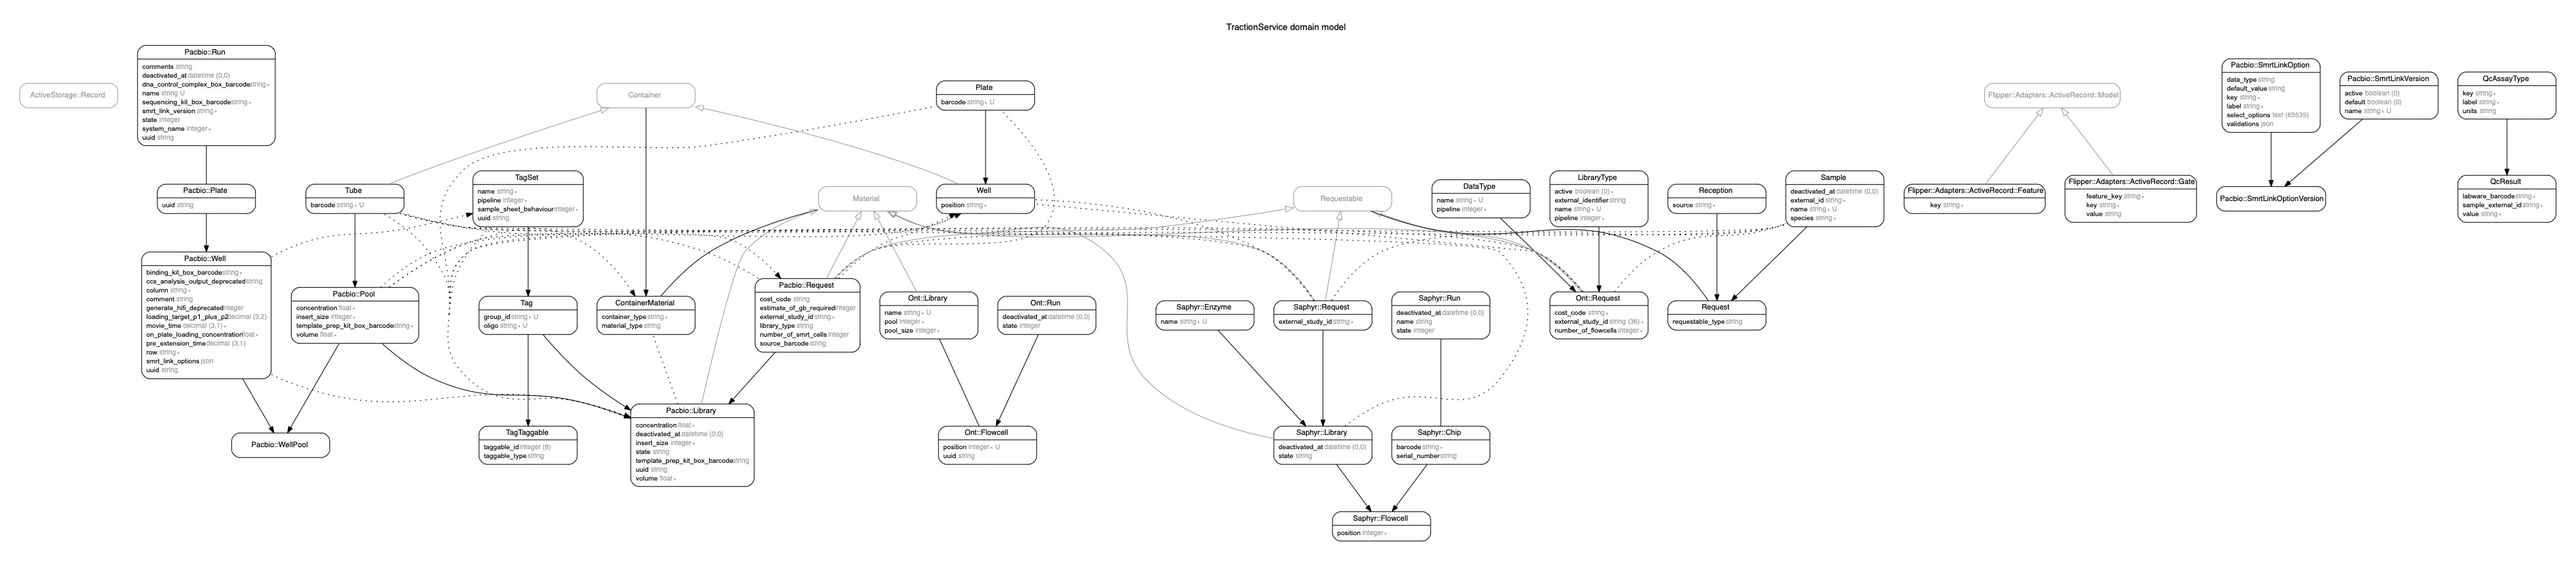
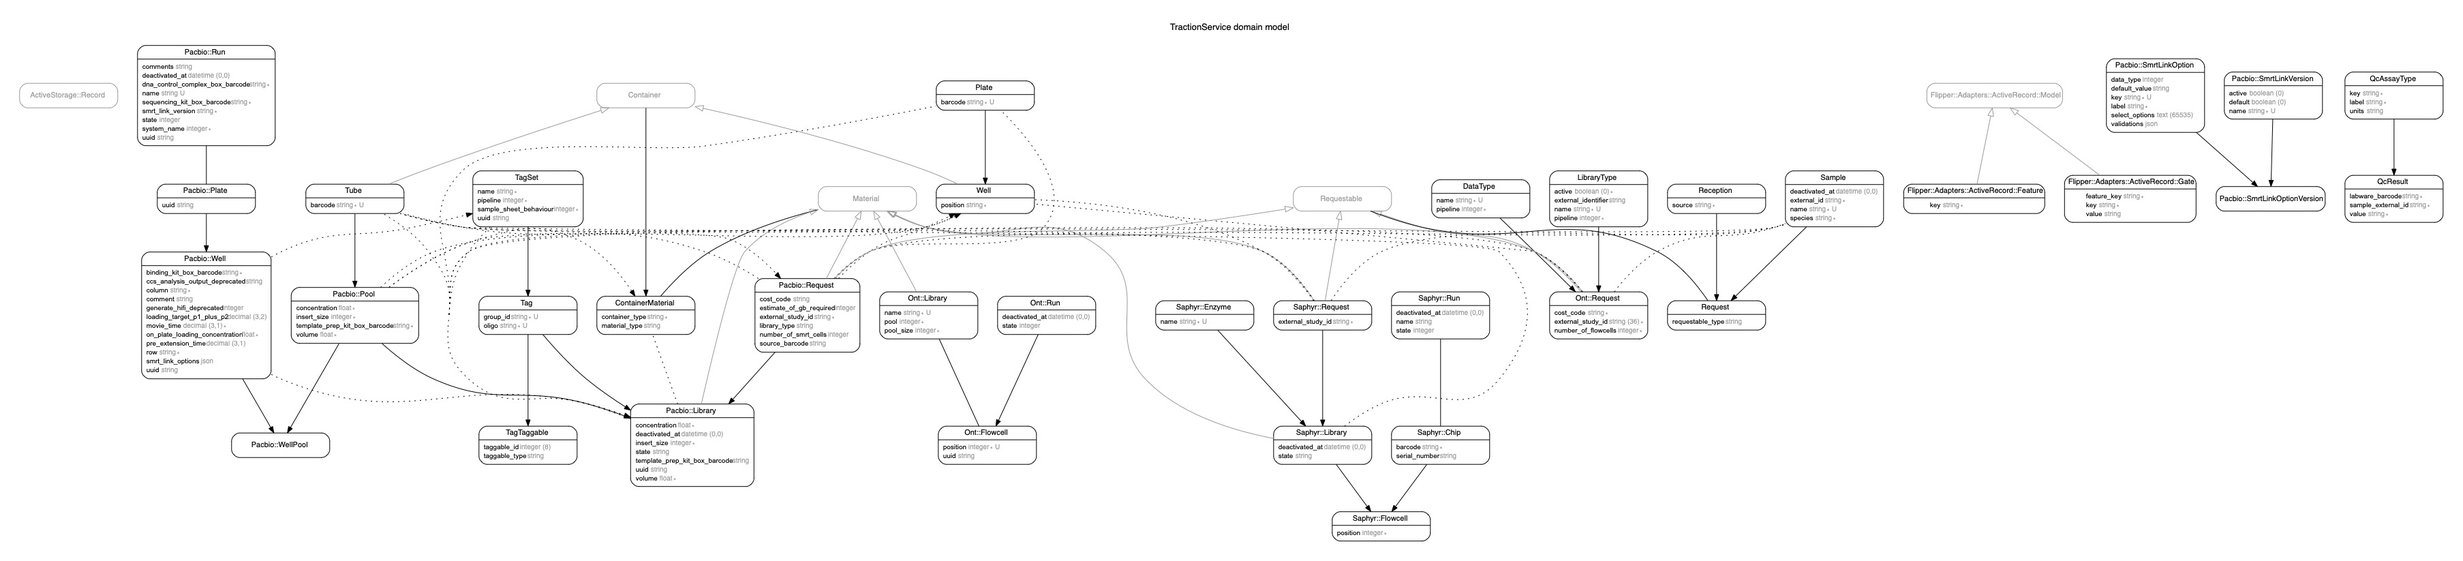
Added end points for retrieving smrt link options and versions.

diff --git a/spec/requests/v1/pacbio/smrt_link_versions_spec.rb b/spec/requests/v1/pacbio/smrt_link_versions_spec.rb
@@ -1,0 +1,61 @@
+# frozen_string_literal: true
+
+require 'rails_helper'
+
+RSpec.describe 'SmrtLinkVersionsController', type: :request do
+  def json
+    ActiveSupport::JSON.decode(response.body)
+  end
+
+  describe '#get' do
+    let!(:default_smrt_link_version) { create(:pacbio_smrt_link_version, default: true) }
+
+    before do
+      create_list(:pacbio_smrt_link_version, 5)
+      create_list(:pacbio_smrt_link_version, 2, active: false)
+
+      get v1_pacbio_smrt_link_versions_path, headers: json_api_headers
+    end
+
+    it 'returns a response' do
+      expect(response).to have_http_status(:success)
+    end
+
+    it 'only includes active versions' do
+      expect(json['data'].length).to eq(6)
+    end
+
+    it 'will include the correct data' do
+      expect(json['data'][0]['attributes']['name']).to eq(default_smrt_link_version.name)
+      expect(json['data'][0]['attributes']['default']).to be_truthy
+    end
+  end
+
+  describe '#options' do
+    let!(:smrt_link_version_1)          { create(:pacbio_smrt_link_version_with_options, option_count: 2) }
+    let!(:smrt_link_version_2)          { create(:pacbio_smrt_link_version_with_options, option_count: 3) }
+
+    before do
+      get "#{v1_pacbio_smrt_link_versions_path}?include=smrt_link_option_versions.smrt_link_option", headers: json_api_headers
+    end
+
+    it 'returns a response' do
+      expect(response).to have_http_status(:success)
+    end
+
+    it 'will include all of the options' do
+      expect(json['data'][0]['relationships']['smrt_link_option_versions']['data'].length).to eq(smrt_link_version_1.smrt_link_options.length)
+      expect(json['data'][1]['relationships']['smrt_link_option_versions']['data'].length).to eq(smrt_link_version_2.smrt_link_options.length)
+    end
+
+    it 'will include the data for each option' do
+      option = smrt_link_version_1.smrt_link_options.first
+      option_json = json['included'].detect { |opt| opt['id'] == option.id.to_s }
+      expect(option_json['attributes']['key']).to eq(option.key)
+      expect(option_json['attributes']['label']).to eq(option.label)
+      expect(option_json['attributes']['default_value']).to eq(option.default_value)
+      expect(option_json['attributes']['data_type']).to eq(option.data_type)
+      expect(option_json['attributes']['select_option']).to eq(option.select_options)
+    end
+  end
+end

diff --git a/spec/models/pacbio/smrt_link_version_spec.rb b/spec/models/pacbio/smrt_link_version_spec.rb
@@ -8,6 +8,11 @@ RSpec.describe Pacbio::SmrtLinkVersion, type: :model, pacbio: true do
       expect { create(:pacbio_smrt_link_version) }.to change(described_class, :count).by(1)
     end
 
+    it 'is possible to create multiple smrt link versions' do
+      smrt_link_version = create(:pacbio_smrt_link_version_with_options, option_count: 3)
+      expect(smrt_link_version.smrt_link_options.length).to eq(3)
+    end
+
     it 'errors if missing required fields' do
       expect { described_class.create! }.to raise_error(ActiveRecord::RecordInvalid)
     end
@@ -21,6 +26,25 @@ RSpec.describe Pacbio::SmrtLinkVersion, type: :model, pacbio: true do
 
     it 'name must be formatted correctly' do
       expect(build(:pacbio_smrt_link_version, name: 'v1.1')).not_to be_valid
+    end
+  end
+
+  describe '#active' do
+    it 'will only show versions that are active' do
+      create_list(:pacbio_smrt_link_version, 5)
+      create_list(:pacbio_smrt_link_version, 2, active: false)
+
+      expect(described_class.active.count).to eq(5)
+    end
+  end
+
+  describe '#by_default' do
+    it 'will show the default version first' do
+      create_list(:pacbio_smrt_link_version, 5)
+      default_version = create(:pacbio_smrt_link_version, default: true)
+      by_default = described_class.by_default
+      expect(by_default.count).to eq(6)
+      expect(by_default.first).to eq(default_version)
     end
   end
 end

diff --git a/spec/models/pacbio/smrt_link_option_spec.rb b/spec/models/pacbio/smrt_link_option_spec.rb
@@ -1,0 +1,36 @@
+# frozen_string_literal: true
+
+require 'rails_helper'
+
+RSpec.describe Pacbio::SmrtLinkOption, type: :model, pacbio: true do
+  describe '#create' do
+    it 'is possible to create a new record' do
+      expect { create(:pacbio_smrt_link_option) }.to change(described_class, :count).by(1)
+    end
+
+    it 'is possible to create multiple smrt link versions' do
+      smrt_link_option = create(:pacbio_smrt_link_option_with_versions, version_count: 3)
+      expect(smrt_link_option.smrt_link_versions.length).to eq(3)
+    end
+
+    it 'errors if missing required fields' do
+      expect { described_class.create! }.to raise_error(ActiveRecord::RecordInvalid)
+    end
+  end
+
+  describe 'validation' do
+    it 'key must be unique' do
+      option = create(:pacbio_smrt_link_option)
+      expect(build(:pacbio_smrt_link_option, key: option.key)).not_to be_valid
+    end
+
+    it 'must have a valid data type' do
+      expect { build(:pacbio_smrt_link_option, data_type: :wrong) }.to raise_error(ArgumentError)
+    end
+
+    it 'if data type is list then must have some select options' do
+      expect(build(:pacbio_smrt_link_option, data_type: :list, select_options: 'a,b,c')).to be_valid
+      expect(build(:pacbio_smrt_link_option, data_type: :list, select_options: nil)).not_to be_valid
+    end
+  end
+end

diff --git a/spec/requests/v1/pacbio/smrt_link_options_spec.rb b/spec/requests/v1/pacbio/smrt_link_options_spec.rb
@@ -1,0 +1,35 @@
+# frozen_string_literal: true
+
+require 'rails_helper'
+
+RSpec.describe 'SmrtLinkOptionsController', type: :request do
+  def json
+    ActiveSupport::JSON.decode(response.body)
+  end
+
+  describe '#get' do
+    let!(:smrt_link_options) { create_list(:pacbio_smrt_link_option, 5, select_options: 'a,b,c') }
+
+    before do
+      get v1_pacbio_smrt_link_options_path, headers: json_api_headers
+    end
+
+    it 'returns a response' do
+      expect(response).to have_http_status(:success)
+    end
+
+    it 'includes the correct number of options' do
+      expect(json['data'].length).to eq(5)
+    end
+
+    it 'will include the correct data' do
+      resource = json['data'][0]['attributes']
+      option = smrt_link_options.first
+      expect(resource['key']).to eq(option.key)
+      expect(resource['label']).to eq(option.label)
+      expect(resource['default_value']).to eq(option.default_value)
+      expect(resource['data_type']).to eq(option.data_type)
+      expect(resource['select_options']).to eq(option.select_options)
+    end
+  end
+end

diff --git a/spec/factories/pacbio/smrt_link_options.rb b/spec/factories/pacbio/smrt_link_options.rb
@@ -4,17 +4,22 @@ FactoryBot.define do
   factory :pacbio_smrt_link_option, class: 'Pacbio::SmrtLinkOption' do
     transient do
       sequence(:option) { |n| n }
-      count { 1 }
     end
 
     key                 { "option_#{option}" }
     label               { "Option #{option}" }
     default_value       { 1 }
     validations         { { required: true, uniqueness: true } }
-    data_type           { :string }
 
-    after(:create) do |smrt_link_option, evaluator|
-      create_list(:pacbio_smrt_link_option_version, evaluator.count, smrt_link_option:)
+    factory :pacbio_smrt_link_option_with_versions do
+      transient do
+        version_count { 1 }
+        version { create(:pacbio_smrt_link_version) }
+      end
+
+      after(:create) do |smrt_link_option, evaluator|
+        create_list(:pacbio_smrt_link_option_version, evaluator.version_count, smrt_link_option:, smrt_link_version: evaluator.version)
+      end
     end
   end
 end

diff --git a/app/models/pacbio/smrt_link_option.rb b/app/models/pacbio/smrt_link_option.rb
@@ -3,13 +3,18 @@
 module Pacbio
   # Pacbio::SmrtLinkOption
   class SmrtLinkOption < ApplicationRecord
+    enum data_type: { string: 0, number: 1, list: 2 }
+
     has_many :smrt_link_option_versions, class_name: 'Pacbio::SmrtLinkOptionVersion',
                                          foreign_key: :pacbio_smrt_link_option_id,
                                          dependent: :destroy, inverse_of: :smrt_link_option
     has_many :smrt_link_versions, through: :smrt_link_option_versions, source: :smrt_link_version,
                                   class_name: 'Pacbio::SmrtLinkVersion'
 
-    validates :key, presence: true
+    validates :key, presence: true, uniqueness: true
     validates :label, presence: true
+
+    # we only need select_options if the data type is a list
+    validates :select_options, presence: true, if: :list?
   end
 end

diff --git a/config/routes.rb b/config/routes.rb
@@ -49,10 +49,12 @@ Rails.application.routes.draw do
         # rubocop:enable Lint/EmptyBlock
       end
 
-      jsonapi_resources :libraries,       only: %i[index update destroy]
-      jsonapi_resources :requests,        only: %i[index create update destroy]
-      jsonapi_resources :tubes,           only: %i[index]
-      jsonapi_resources :pools,           except: %i[destroy]
+      jsonapi_resources :libraries,           only: %i[index update destroy]
+      jsonapi_resources :requests,            only: %i[index create update destroy]
+      jsonapi_resources :tubes,               only: %i[index]
+      jsonapi_resources :pools,               except: %i[destroy]
+      jsonapi_resources :smrt_link_versions,  only: %i[index show]
+      jsonapi_resources :smrt_link_options,   only: %i[index show]
     end
 
     namespace :ont do

diff --git a/app/models/pacbio/smrt_link_version.rb b/app/models/pacbio/smrt_link_version.rb
@@ -6,9 +6,12 @@ module Pacbio
     validates :name, presence: true, uniqueness: true, format: Version::FORMAT
 
     has_many :smrt_link_option_versions, class_name: 'Pacbio::SmrtLinkOptionVersion',
-                                         foreign_key: :pacbio_smrt_link_option_id,
+                                         foreign_key: :pacbio_smrt_link_version_id,
                                          dependent: :destroy, inverse_of: :smrt_link_version
     has_many :smrt_link_options, through: :smrt_link_option_versions, source: :smrt_link_option,
                                  class_name: 'Pacbio::SmrtLinkOption'
+
+    scope :active, -> { where(active: true) }
+    scope :by_default, -> { order(default: :desc) }
   end
 end

diff --git a/app/resources/v1/pacbio/smrt_link_version_resource.rb b/app/resources/v1/pacbio/smrt_link_version_resource.rb
@@ -1,0 +1,18 @@
+# frozen_string_literal: true
+
+module V1
+  module Pacbio
+    # SmrtLinkVersionResource - Return the SMRT Link Versions
+    class SmrtLinkVersionResource < JSONAPI::Resource
+      model_name 'Pacbio::SmrtLinkVersion'
+
+      attributes :name, :default
+
+      has_many :smrt_link_option_versions, class_name: 'SmrtLinkOptionVersion'
+
+      def self.records(_options = {})
+        super.active.by_default
+      end
+    end
+  end
+end

diff --git a/spec/factories/pacbio/smrt_link_versions.rb b/spec/factories/pacbio/smrt_link_versions.rb
@@ -3,5 +3,15 @@
 FactoryBot.define do
   factory :pacbio_smrt_link_version, class: 'Pacbio::SmrtLinkVersion' do
     sequence(:name) { |n| "v#{n}" }
+
+    factory :pacbio_smrt_link_version_with_options do
+      transient do
+        option_count { 1 }
+      end
+
+      after(:create) do |smrt_link_version, evaluator|
+        create_list(:pacbio_smrt_link_option_version, evaluator.option_count, smrt_link_version:)
+      end
+    end
   end
 end

diff --git a/db/schema.rb b/db/schema.rb
@@ -196,7 +196,7 @@ ActiveRecord::Schema[7.0].define(version: 2022_09_07_090851) do
     t.string "label", null: false
     t.string "default_value"
     t.json "validations"
-    t.string "data_type"
+    t.integer "data_type", default: 0
     t.text "select_options"
     t.datetime "created_at", null: false
     t.datetime "updated_at", null: false

diff --git a/db/migrate/20220906161256_create_pacbio_smrt_link_options.rb b/db/migrate/20220906161256_create_pacbio_smrt_link_options.rb
@@ -6,7 +6,7 @@ class CreatePacbioSmrtLinkOptions < ActiveRecord::Migration[7.0]
       t.string :label, null: false
       t.string :default_value
       t.json :validations
-      t.string :data_type
+      t.integer :data_type, default: 0
       t.text :select_options
 
       t.timestamps
